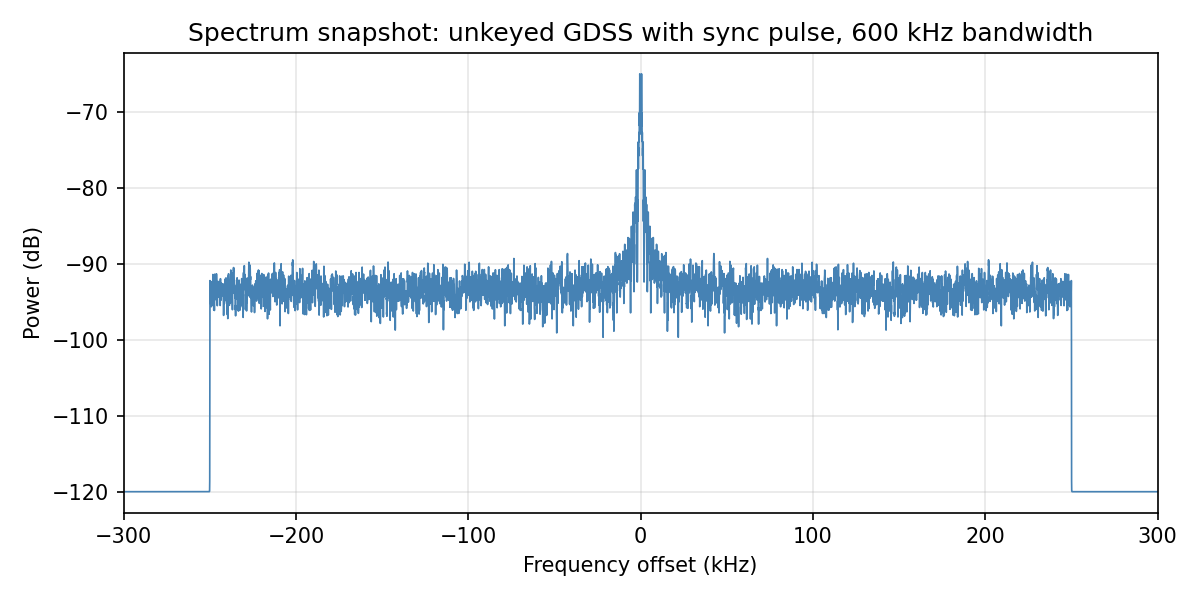
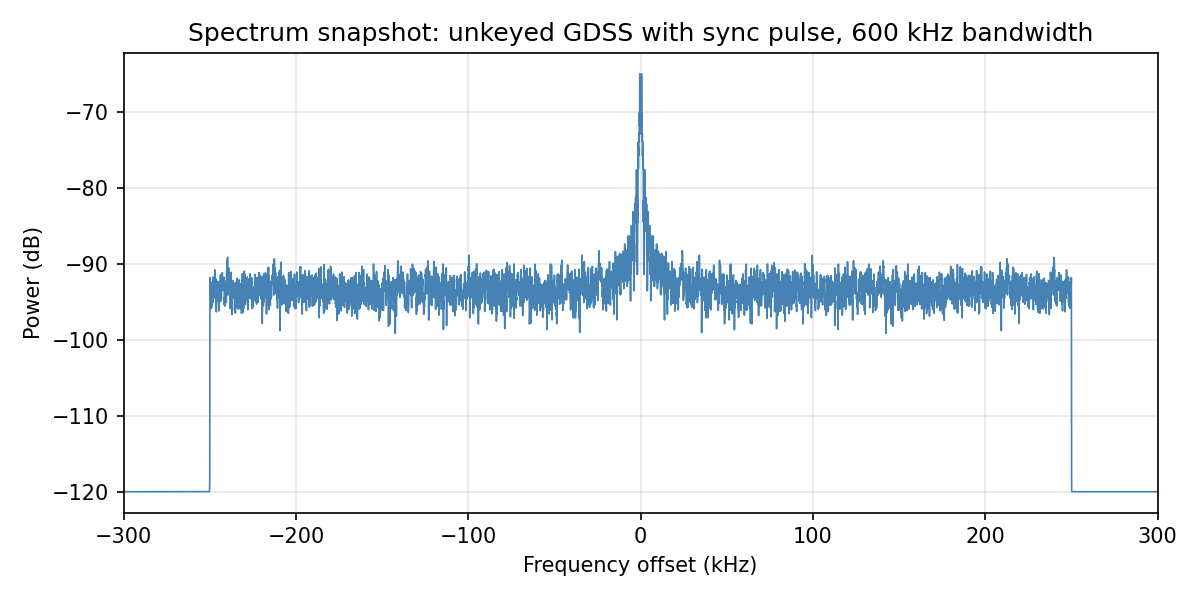
tests: refresh test results date and regenerated plot assets
Made-with: Cursor

Changed region(s): [[0.185, 0.42, 0.8942, 0.57]]

diff --git a/docs/TEST_RESULTS.md b/docs/TEST_RESULTS.md
@@ -2,9 +2,9 @@
 
 This document records snapshot results from the gr-k-gdss test suite. For how to run the tests and what they do, see [TESTING.md](TESTING.md).
 
-**Last recorded run: 21 March 2026**
+**Last recorded run: 25 March 2026**
 
-- **pytest:** 37 passed, 1 skipped (38 collected). `TestT3KeyringRoundTrip::test_keyring_round_trip` is skipped when no keyring is available (expected in many environments).
+- **pytest:** 42 passed, 1 skipped (43 collected). `TestT3KeyringRoundTrip::test_keyring_round_trip` is skipped when no keyring is available (expected in many environments).
 - **IQ file analysis:** 29 passed, 0 failed, 0 warnings. Cross-session: Standard GDSS 1.0000 (VULNERABLE), Keyed GDSS 0.1028 (PROTECTED), 9.7x reduction. Plots: `tests/iq_files/iq_comparison.png`, `tests/iq_files/iq_comparison_vs_standard.png`; spectrum snapshots (600 kHz): `tests/iq_files/spectrum_baseline.png`, `tests/iq_files/spectrum_realistic_baseline.png`, `tests/iq_files/spectrum_standard_gdss.png`, `tests/iq_files/spectrum_keyed_gdss.png`, `tests/iq_files/spectrum_real_noise.png`, `tests/iq_files/spectrum_realistic_plus_standard_gdss.png`, `tests/iq_files/spectrum_realistic_plus_keyed_gdss.png`.
 - **Preprint BER / channel simulations (not pytest):** Statistical Monte Carlo figures for [Section 7](https://github.com/Supermagnum/GR-K-GDSS/blob/main/paper/kgdss_paper.tex) live under `paper/figures/` (`fig7_awgn_ber.png` through `fig10_ldpc.png`). Regenerate via [paper/README.md](../paper/README.md) (`ber_simulation.py`, `gen_figures.py`). See [Preprint BER and ITU/STANAG-style channel figures](#preprint-ber-and-itustanag-style-channel-figures) below.
 
@@ -45,9 +45,12 @@ Run: `pytest tests/ -v` from the repository root (after installing the module an
 platform linux -- Python 3.12.3, pytest-7.4.4, pluggy-1.4.0 -- /usr/bin/python3
 cachedir: .pytest_cache
 rootdir: /path/to/GR-K-GDSS
-collecting ... collected 38 items
+collecting ... collected 43 items
 
 tests/test_cross_layer.py::TestCrossLayerFullStackRoundTrip::test_full_stack_round_trip PASSED [  2%]
+tests/test_p372_receiver_profile.py::TestP372BaselineLoader::test_load_is_deterministic PASSED [  4%]
+tests/test_p372_receiver_profile.py::TestP372ExpectedProfile::test_expected_profile_shape PASSED [  6%]
+tests/test_p372_receiver_profile.py::TestP372Calibration::test_median_offset_calibration PASSED [  9%]
 tests/test_t1_spreader_despreader.py::TestT1RoundTrip::test_round_trip PASSED [  5%]
 tests/test_t1_spreader_despreader.py::TestT1KeystreamDeterminism::test_keystream_determinism PASSED [  7%]
 tests/test_t1_spreader_despreader.py::TestT1KeySensitivity::test_key_sensitivity PASSED [ 10%]
@@ -66,8 +69,10 @@ tests/test_t2_sync_burst.py::TestT2PNDeterminism::test_pn_determinism PASSED [ 4
 tests/test_t2_sync_burst.py::TestT2PNKeySensitivity::test_pn_key_sensitivity PASSED [ 44%]
 tests/test_t2_sync_burst.py::TestT2PNBalance::test_pn_balance PASSED     [ 47%]
 tests/test_t2_sync_burst.py::TestT2TimingOffsetDeterminism::test_timing_determinism PASSED [ 50%]
-tests/test_t2_sync_burst.py::TestT2TimingOffsetRange::test_timing_offset_range PASSED [ 52%]
-tests/test_t2_sync_burst.py::TestT2TimingOffsetDistribution::test_timing_offset_distribution PASSED [ 55%]
+tests/test_t2_sync_burst.py::TestT2TimingScheduleRange::test_schedule_range PASSED [ 53%]
+tests/test_t2_sync_burst.py::TestT2TimingScheduleProperties::test_schedule_properties PASSED [ 55%]
+tests/test_t2_sync_burst.py::TestT2PerBurstPNUniqueness::test_pn_backward_compatible_default PASSED [ 58%]
+tests/test_t2_sync_burst.py::TestT2PerBurstPNUniqueness::test_pn_uniqueness PASSED [ 60%]
 tests/test_t2_sync_burst.py::TestT2GaussianEnvelope::test_gaussian_envelope_shape PASSED [ 57%]
 tests/test_t2_sync_burst.py::TestT2KeyedGaussianMask::test_mask_determinism PASSED [ 60%]
 tests/test_t2_sync_burst.py::TestT2KeyedGaussianMask::test_mask_different_nonce_different_output PASSED [ 63%]
@@ -86,10 +91,10 @@ tests/test_t3_key_derivation.py::TestT3SyncBurstNonce::test_sync_burst_nonce_dis
 tests/test_t3_key_derivation.py::TestT3SyncBurstNonce::test_sync_burst_nonce_length PASSED [ 97%]
 tests/test_t3_key_derivation.py::TestT3KeyringRoundTrip::test_keyring_round_trip SKIPPED [100%]
 
-======================== 37 passed, 1 skipped in 0.43s =========================
+======================== 42 passed, 1 skipped in 0.42s =========================
 ```
 
-**Summary:** 37 passed, 1 skipped (38 collected). With a keyring available, the keyring round-trip test may run instead of skip (38 passed, 0 skipped).
+**Summary:** 42 passed, 1 skipped (43 collected). With a keyring available, the keyring round-trip test may run instead of skip (43 passed, 0 skipped).
 
 ---
 
